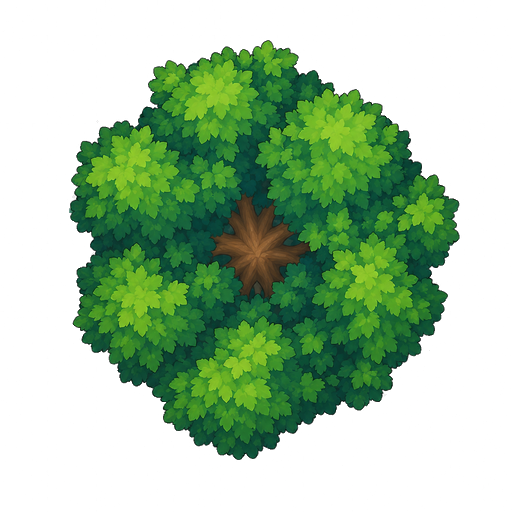
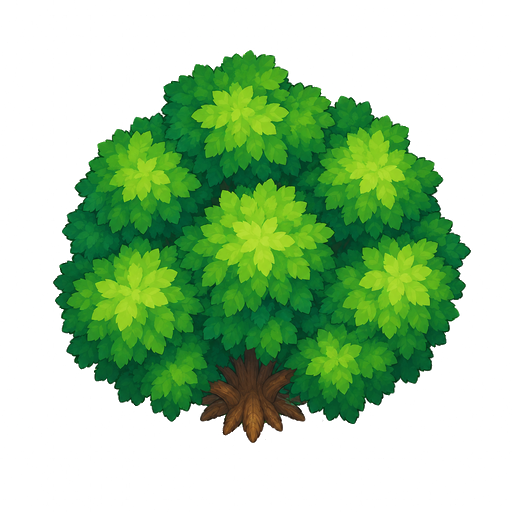
feat: simplify lot sprite loading and improve rendering logic for buildings

diff --git a/lib/game/world/town_world.dart b/lib/game/world/town_world.dart
@@ -73,68 +73,27 @@ class TownWorld extends LifeWorld {
 
     // Load custom lot sprites in the background: assigning the field later
     // is safe (no mount lifecycle involved), and gameplay / collision must
-    // not wait for image decodes.
-    _loadLotSprite(
-      'home.png',
-      'home',
-      scale: 1.7,
-      widthBoost: 1.15,
-      labelColor: Colors.white,
-    );
-    _loadLotSprite(
-      'plaza.jpg',
-      'plaza',
-      scale: 1.3,
-      widthBoost: 1.15,
-      labelColor: Colors.white,
-    );
-    _loadLotSprite(
-      'school.png',
-      'school',
-      scale: 1.15,
-      widthBoost: 1.4,
-      labelColor: Colors.white,
-    );
-    _loadLotSprite(
-      'church.png',
-      'church',
-      scale: 1.5,
-      widthBoost: 1.6,
-      labelColor: Colors.white,
-    );
-    _loadLotSprite(
-      'park.png',
-      'park',
-      scale: 1.15,
-      widthBoost: 1.4,
-      labelColor: Colors.white,
-    );
-    _loadLotSprite(
-      'cafe.png',
-      'workplace',
-      scale: 1.3,
-      widthBoost: 1.1,
-      labelColor: Colors.white,
-    );
+    // not wait for image decodes. Art is cover-fit and clipped to the
+    // lot in render, so visuals can never spill past collision (no
+    // standing on building sides).
+    _loadLotSprite('home.png', 'home', labelColor: Colors.white);
+    _loadLotSprite('plaza.jpg', 'plaza', labelColor: Colors.white);
+    _loadLotSprite('school.png', 'school', labelColor: Colors.white);
+    _loadLotSprite('church.png', 'church', labelColor: Colors.white);
+    _loadLotSprite('park.png', 'park', labelColor: Colors.white);
+    _loadLotSprite('cafe.png', 'workplace', labelColor: Colors.white);
     _loadTreeSprite();
   }
 
   void _loadLotSprite(
     String file,
     String locationId, {
-    double scale = 1.0,
-    double widthBoost = 1.0,
     Color labelColor = Colors.black87,
   }) {
     Sprite.load(file).then((sprite) {
       for (final b in buildings) {
         if (b.location.id == locationId) {
-          b.setSprite(
-            sprite,
-            scale: scale,
-            widthBoost: widthBoost,
-            labelColor: labelColor,
-          );
+          b.setSprite(sprite, labelColor: labelColor);
         }
       }
     }).catchError((_) {});
@@ -753,8 +712,6 @@ class BuildingBlock extends RectangleComponent implements Interactable {  final 
   static const double doorHeight = 26;
 
   Sprite? _lotSprite;
-  double _spriteScale = 1.0;
-  double _spriteWidthBoost = 1.0;
   Color _spriteLabelColor = Colors.black87;
 
   BuildingBlock({
@@ -771,15 +728,8 @@ class BuildingBlock extends RectangleComponent implements Interactable {  final 
   /// Called once [TownWorld] finishes loading the lot art in the
   /// background. Synchronous so mounting a building never races with
   /// swapping the world in/out.
-  void setSprite(
-    Sprite sprite, {
-    double scale = 1.0,
-    double widthBoost = 1.0,
-    Color labelColor = Colors.black87,
-  }) {
+  void setSprite(Sprite sprite, {Color labelColor = Colors.black87}) {
     _lotSprite = sprite;
-    _spriteScale = scale;
-    _spriteWidthBoost = widthBoost;
     _spriteLabelColor = labelColor;
   }
 
@@ -810,10 +760,10 @@ class BuildingBlock extends RectangleComponent implements Interactable {  final 
 
   @override
   void render(Canvas canvas) {
-    // Buildings with custom art render it as a top-down lot tile: the art
-    // is native north-facing (street/gate edge on top), drawn aspect-fit
-    // with per-lot scale, gate end toward the door side. No solid color
-    // box behind it. Collision / door logic is unchanged.
+    // Buildings with custom art render it as a top-down lot tile filling
+    // the lot exactly (cover-fit + clip): visuals can never spill past
+    // the collision rect, so the player can't stand on building sides.
+    // Collision / door logic is unchanged.
     final lotSprite = _lotSprite;
     if (lotSprite != null) {
       // Soft grounding shadow along the south edge.
@@ -825,14 +775,14 @@ class BuildingBlock extends RectangleComponent implements Interactable {  final 
         ),
         Paint()..color = const Color(0x2E000000),
       );
+      canvas.save();
+      canvas.clipRect(Rect.fromLTWH(0, 0, size.x, size.y));
       final src = lotSprite.srcSize;
-      final scale = min(size.x / src.x, size.y / src.y) * _spriteScale;
-      final drawSize = Vector2(
-        src.x * scale * _spriteWidthBoost,
-        src.y * scale,
-      );
+      final cover = max(size.x / src.x, size.y / src.y);
+      final drawSize = Vector2(src.x * cover, src.y * cover);
       final offset = (size - drawSize) / 2;
       lotSprite.render(canvas, position: offset, size: drawSize);
+      canvas.restore();
       drawCenteredLabel(
         canvas,
         Vector2(size.x, size.y + 36),
